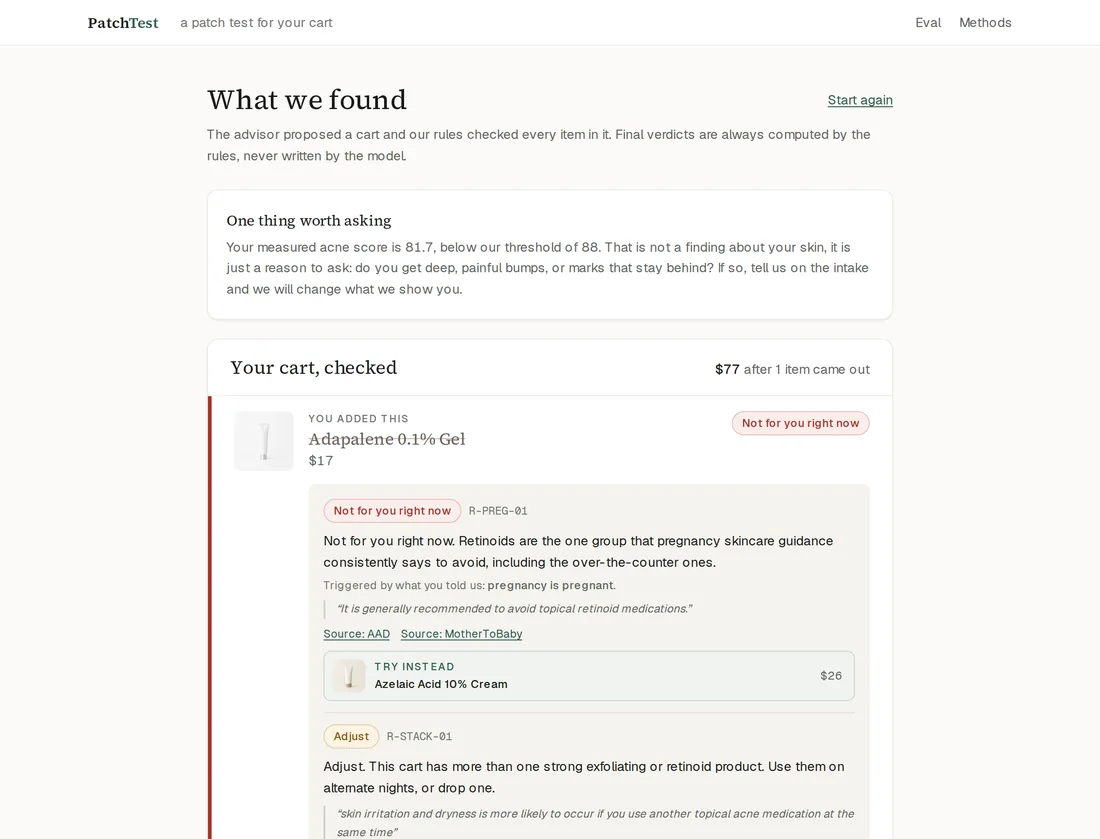
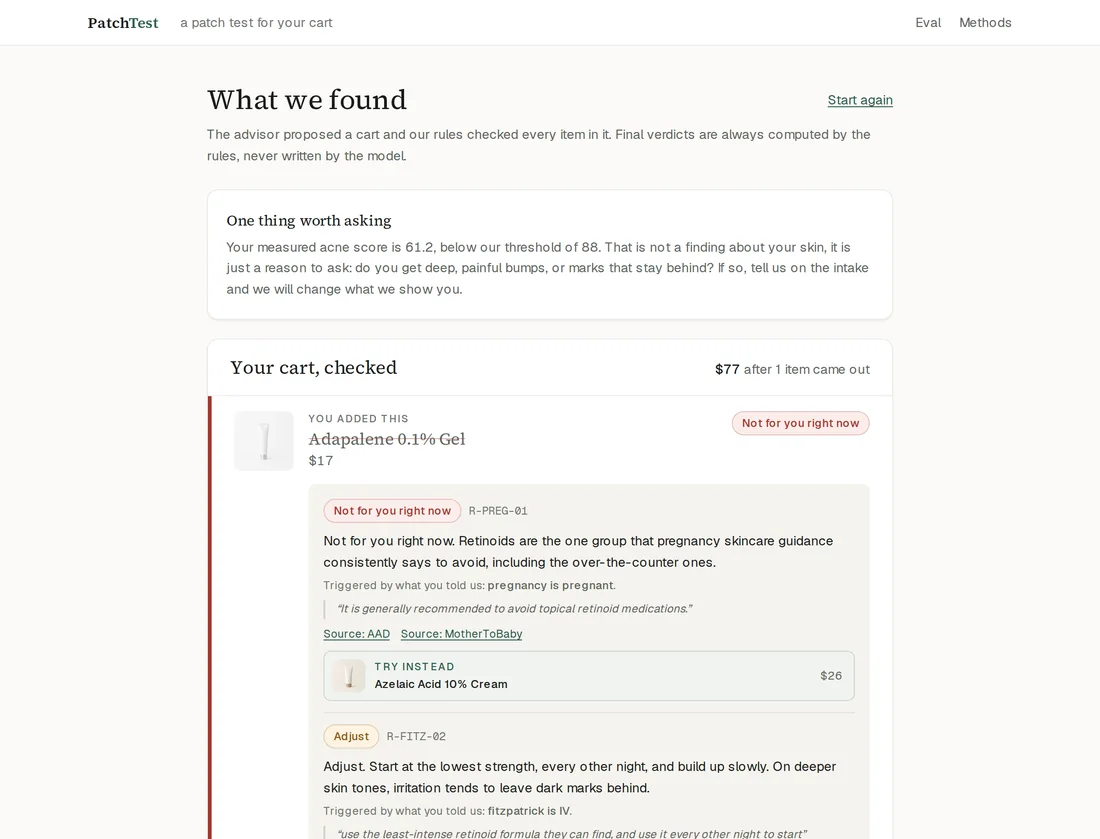
Screenshots from production, and progress notes
Claude-Session: https://claude.ai/code/session_01B3ZBHnzHYM7nGW6UrQkoJq

Changed region(s): [[0.3091, 0.8677, 0.7727, 1.0]]

diff --git a/PROGRESS.md b/PROGRESS.md
@@ -1,9 +1,11 @@
 # PatchTest progress
 
-Updated: Sat Oct 31 2026, 01:10 UTC+8
+Updated: Sat Oct 31 2026, 01:45 UTC+8
 
 **Live:** https://patchtest.fly.dev
 **Repo:** https://github.com/0xNoramiya/patchtest
+**Extension:** https://github.com/0xNoramiya/patchtest/releases/latest
+**Demo shop for the extension:** https://patchtest.fly.dev/store
 
 ## Units spent
 
@@ -34,6 +36,14 @@ checked: 14 verified, 7 partial, 3 heuristic rules with no source by design. Nin
 disclosed synthetic faces scanned and recorded. Thresholds calibrated against the
 real distribution, which caught three bugs that would have shipped.
 
+**M3.** Browser extension, Manifest V3, downloadable from Releases. It reads a
+cart on any shop's page and applies the same 24 rules. `lib/match.ts` parses a
+product title into actives, percentages, tags, rinse-off and body area, with 24
+tests. Extraction prefers the schema.org data shops already publish. A title it
+cannot read returns UNKNOWN and says that is not a clearance.
+`scripts/test-extension.mjs` loads the packaged extension into a real browser and
+asserts it annotates the demo cart against production.
+
 **M2.** Agent loop with the fair baseline. Claim linter, build-time and runtime.
 40-scenario eval, both arms, three runs each. Full UI: landing, consent, intake,
 cart picker, scan selection, results with mask overlays, `/methods`, `/eval`.
@@ -46,8 +56,8 @@ volume.
 |---|---|---|
 | Sold an item the gold calls unsafe | **0%** | **22.5%** |
 | Sold an item needing a caveat, with none | 11.1% | 100% |
-| Same cart on all three runs | 62.5% | 65% |
-| Mean cart value | $82.50 | $90.61 |
+| Same cart on all three runs | 65% | 65% |
+| Mean cart value | $82.70 | $90.99 |
 
 23 of 24 rules fired exactly when they should and stayed quiet exactly when they
 should. The 24th is the sunscreen rule, which never needed to fire because the
@@ -71,9 +81,32 @@ advisor had already added sunscreen.
    chat.
 6. **The scan bank has no Fitzpatrick I.** Five of six types are covered.
 
+## Design and assets
+
+- 26 generated product images, unbranded with no text, and nine disclosed
+  synthetic faces. Every image in the project is generated.
+- Favicon is a patch test grid with one site reacting. No default Next.js assets
+  remain.
+- Design pass: alpha borders, layered shadows, a verdict colour rail on cart
+  rows, and the scan panel drawing the measured score against the one YouCam
+  shows so the compression is visible. The OK verdict no longer shares the brand
+  green, and the focus ring is neutral.
+
+## Fixed after review
+
+- **The pregnancy preset was showing a man.** The acne face was regenerated to
+  read as clearly adult and became male; nothing re-checked which scenarios
+  pointed at it. Four eval scenarios had the same fault. Both corrected, and two
+  tests now fail the build if it recurs.
+- **The eval page promised one thing and showed another.** Its "where the plain
+  advisor fell short" section printed our own gold rationale instead of what the
+  advisor did. It now names the product sold uncaveated and quotes what PatchTest
+  said about the same item.
+
 ## Not built
 
-- The MCP tool `check_cart`, which was a stretch goal.
+- The MCP tool `check_cart`, which was a stretch goal. The HTTP endpoint the
+  extension uses is already that shape, so it is a thin wrapper away.
 - A Bahasa Indonesia interface, also a stretch goal.
 - MediaPipe face detection in the browser. The pre-check uses resolution,
   brightness and framing instead. The reason is in `docs/API_NOTES.md`: YouCam
